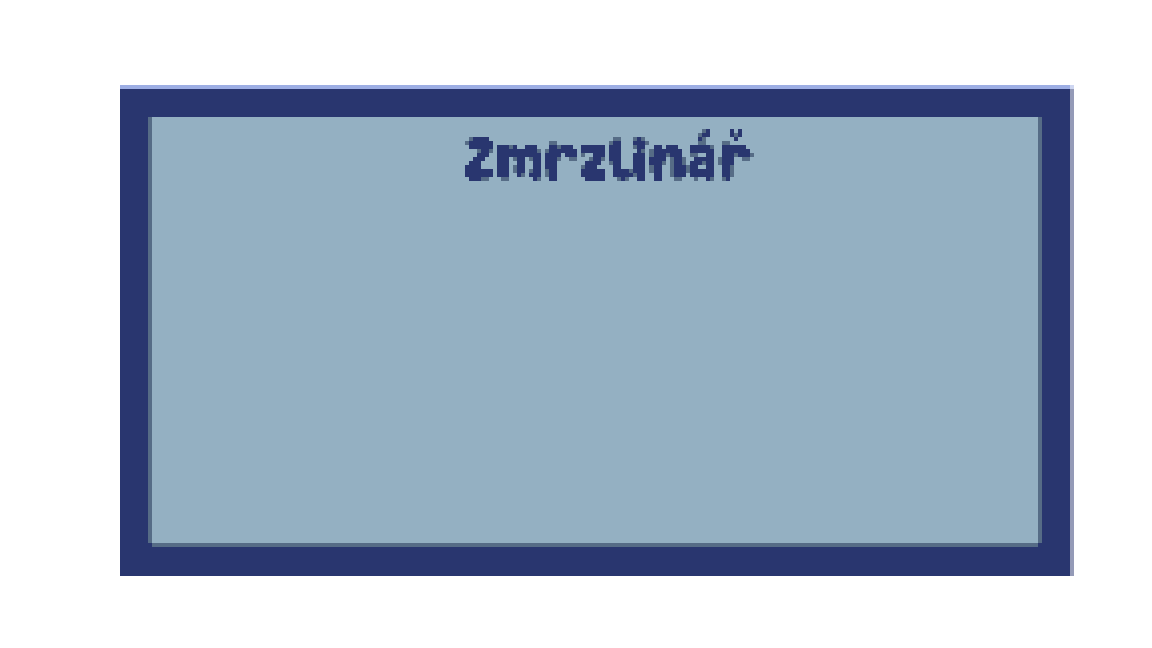
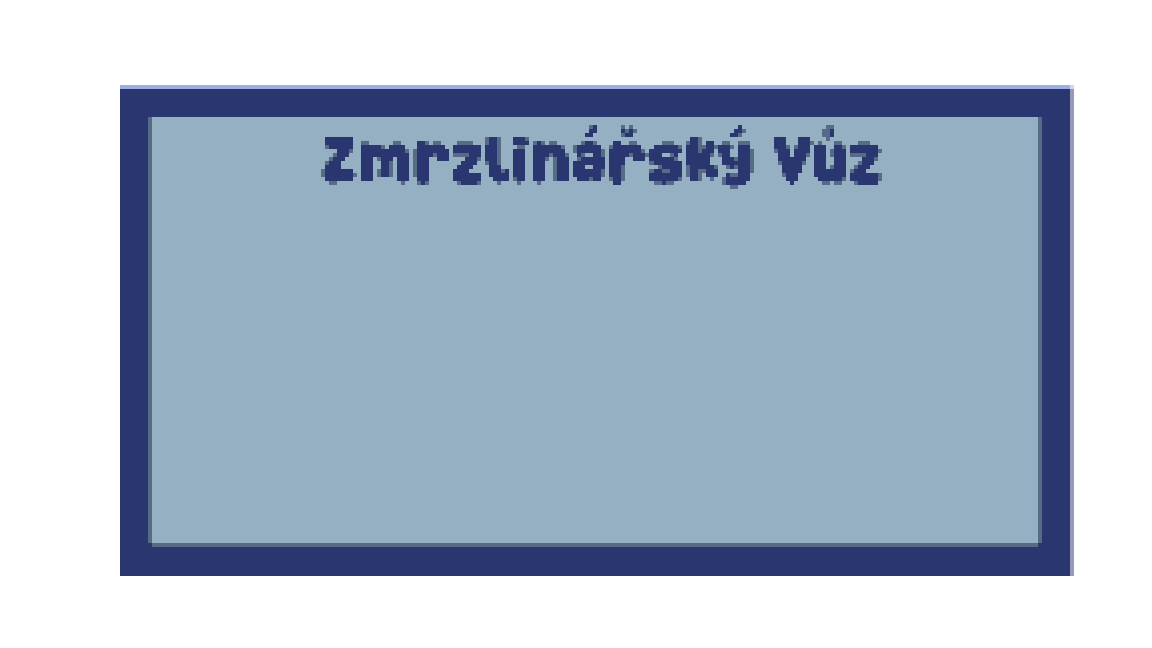
Zmrzlina

Changed region(s): [[0.2812, 0.1852, 0.7812, 0.3086]]

diff --git a/Minigotchi.py b/Minigotchi.py
@@ -226,11 +226,24 @@ frigmenu.setStyleSheet("""
 """)
 '''frigmenu.setAttribute(QtCore.Qt.WA_TransparentForMouseEvents)'''
 Iterator = 0
-
-dekorace = [
-    ("Nastenka", 45, 0, "ted"),
-    ("Kvet", 80, 0, "ted"),
-]
+frip = QPushButton(novak)
+frip.setIcon(QIcon(r"Next.png"))
+frip.move(440,116)
+frip.setIconSize(QSize(30, 30))
+frip.setAttribute(QtCore.Qt.WA_TransparentForMouseEvents, True)
+frip.hide()
+frip.setStyleSheet("""
+    QPushButton {
+        border: none;
+        background: transparent;
+    }
+    QPushButton:hover {
+        background: transparent;
+    }
+    QPushButton:pressed {
+        background: transparent;
+    }
+""")
 
 '''
 for objekt, x, y, png in dekorace:
@@ -253,7 +266,27 @@ for objekt, x, y, png in dekorace:
 '''
 
 def zmrzf():
-    print("Umrzl")
+    global LedSwitch
+    global lock
+    global UIstate
+    if LedSwitch == 0:
+        frigmenu.setIcon(QIcon(f"ZmrzMenu.png"))
+        UIstate = "Zmrz"
+        menuexit.show()
+        frigmenu.show()
+        for item in zmrzliny:
+            item["button"].show()
+            item["label"].show()
+        update("Zmrz")
+        LedSwitch = 1
+    else:
+        UIstate = "X"
+        frigmenu.hide()
+        menuexit.hide()
+        for item in zmrzliny:
+            item["button"].hide()
+            item["label"].hide()
+        LedSwitch = 0
 
 def Switcharoonie(enemy=None):
     global Iterator
@@ -399,12 +432,27 @@ jidlicka = [
     {"name": "Vroci", "img": "Vroci.png", "y": 140, "x": 140, "price": 20, "count": 1}
 ]
 
+zmrzliny = [
+    {"name": "Cookie", "img": "ZCookie.png", "y": 211, "x": 240, "price": 30, "count": 0},
+    {"name": "Ruska", "img": "ZPycknn.png", "y": 211, "x": 340, "price": 30, "count": 0},
+    {"name": "Mint", "img": "ZMint.png", "y": 150, "x": 340, "price": 30, "count": 2},
+    {"name": "Vanila", "img": "ZVanila.png", "y": 211, "x": 140, "price": 30, "count": 0},
+    {"name": "Limon", "img": "ZLimon.png", "y": 150, "x": 240, "price": 30, "count": 0},
+    {"name": "Choco", "img": "ZChoco.png", "y": 150, "x": 140, "price": 30, "count": 1}
+]
+
 multi = 1
 def update(mode):
     global event
     global multi
     if mode == "Led":
         for item in jidlicka:
+            if event == "BL" or event == "E":
+                item["label"].setText(f"{item['price']*multi}$!")
+            else:
+                item["label"].setText(f"{item['price']}$")
+    elif mode == "Zmrz":
+        for item in zmrzliny:
             if event == "BL" or event == "E":
                 item["label"].setText(f"{item['price']*multi}$!")
             else:
@@ -441,7 +489,27 @@ def volbyvarmenii(item):
         if lock:
             return
         sezer(item)
- 
+
+def aktivujeme(item):
+    global mon, multi
+    if UIstate == "Zmrz":
+        if mon < item["price"] * multi:
+            return
+        mon -= item["price"] * multi
+        item["count"] += 1
+        zmena()
+        update(UIstate)
+    else:
+        if item["count"] <= 0:
+            return
+        item["count"] -= 1
+        global hlad
+        hlad -= 1
+        if hlad < 0:
+            hlad = 0
+        HUBar.setIcon(QIcon(f"{hlad+1}H.png"))
+        zmena()
+
 for item in jidlicka:
     btn = QPushButton(novak)
     btn.setIcon(QIcon(item["img"]))
@@ -462,6 +530,27 @@ for item in jidlicka:
     item["button"] = btn
     item["label"] = label
     btn.clicked.connect(lambda _, i=item: volbyvarmenii(i))
+
+for item in zmrzliny:
+    btn = QPushButton(novak)
+    btn.setIcon(QIcon(item["img"]))
+    btn.setGeometry(item["x"], item["y"], 115, 50)
+    btn.setIconSize(QSize(60,60))
+    btn.hide()
+    btn.setStyleSheet("""
+    QPushButton {
+        border: none;
+        background: transparent;
+    }
+    """)
+    label = QLabel(novak)
+    label.setGeometry(item["x"] + 85, item["y"], 140, 50)
+    label.setStyleSheet("color: black; font-size: 14px; background: transparent;")
+    label.hide()
+    label.setAttribute(QtCore.Qt.WA_TransparentForMouseEvents)
+    item["button"] = btn
+    item["label"] = label
+    btn.clicked.connect(lambda _, i=item: aktivujeme(i))
 
 def updateenvir():
     for item in nabytky:
@@ -521,7 +610,6 @@ for item in nabytky:
         background: transparent;
     }
     """)
-
     label = QLabel(novak)
     label.setGeometry(item["x"] + 85, item["y"], 140, 50)
     label.setStyleSheet("color: black; font-size: 14px; background: transparent;")
@@ -695,6 +783,7 @@ def hamu_papu():
     if not start:
         return
     if LedSwitch == 0:
+        frip.show()
         menuexit.show()
         UIstate = "Hamu"
         frigmenu.setIcon(QIcon(r"Inventormenu.png"))
@@ -752,6 +841,7 @@ def navod(Type):
     global envir
     global start
     global stav
+    global event
     if lock and not Type == "Exit":
         return
     if not start:
@@ -769,7 +859,7 @@ def navod(Type):
         psik.show()
         hopkun.show()
         schovse()
-        if random.randint(1,2) == 2:
+        if event == "Z":
             zmrz.show()
     else:
         envir = "Domov"
@@ -991,6 +1081,10 @@ def day_night():
             cyklus.start(60000)
             minik.setIcon(QIcon("MinikSleep.png"))
     else:
+        if random.randint(1,4) == 4:
+            event = "Z"
+        else:
+            event = "N"
         Iterator = 2
         Switcharoonie()
         stav = "den"
@@ -1083,7 +1177,7 @@ def hatch():
     lock = False
  
 def ageup():
-    minik.setIcon(QIcon(f"Min{povaha}.png"))
+    minik.setIcon(QIcon(f"Min{povaha}.png")) #fix
  
 def led():
     global LedSwitch
@@ -1101,6 +1195,7 @@ def led():
         LedSwitch = 1
     else:
         UIstate = "X"
+        frip.hide()
         frigmenu.hide()
         menuexit.hide()
         for item in jidlicka:
@@ -1116,8 +1211,10 @@ def masa():
         hamu_papu()
     elif UIstate == "Led":
         led()
-    else:
+    elif UIstate == "Nakup":
         nakupy()
+    else:
+        zmrzf()
        
 LedSwitch=0
 vajco.clicked.connect(hatch)
